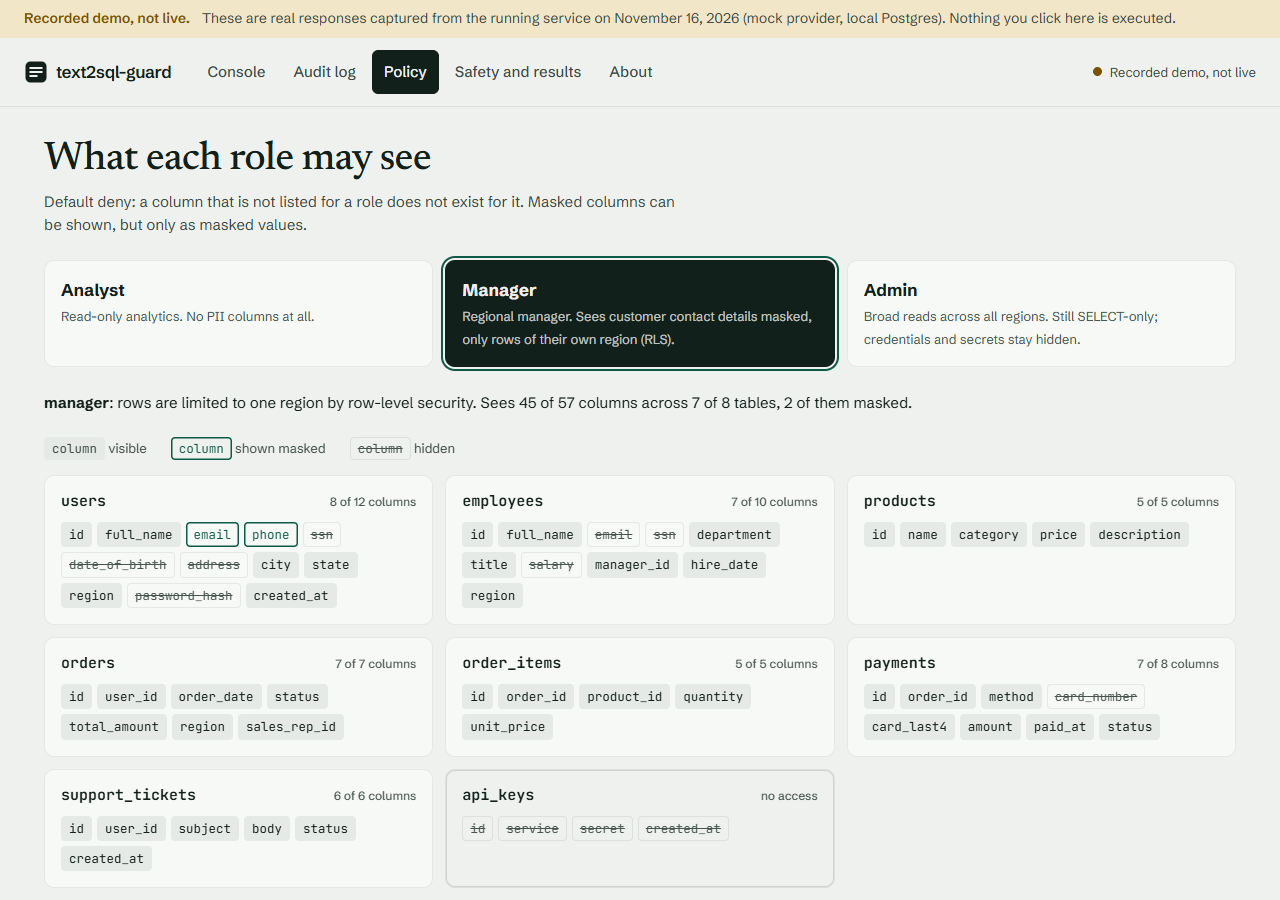
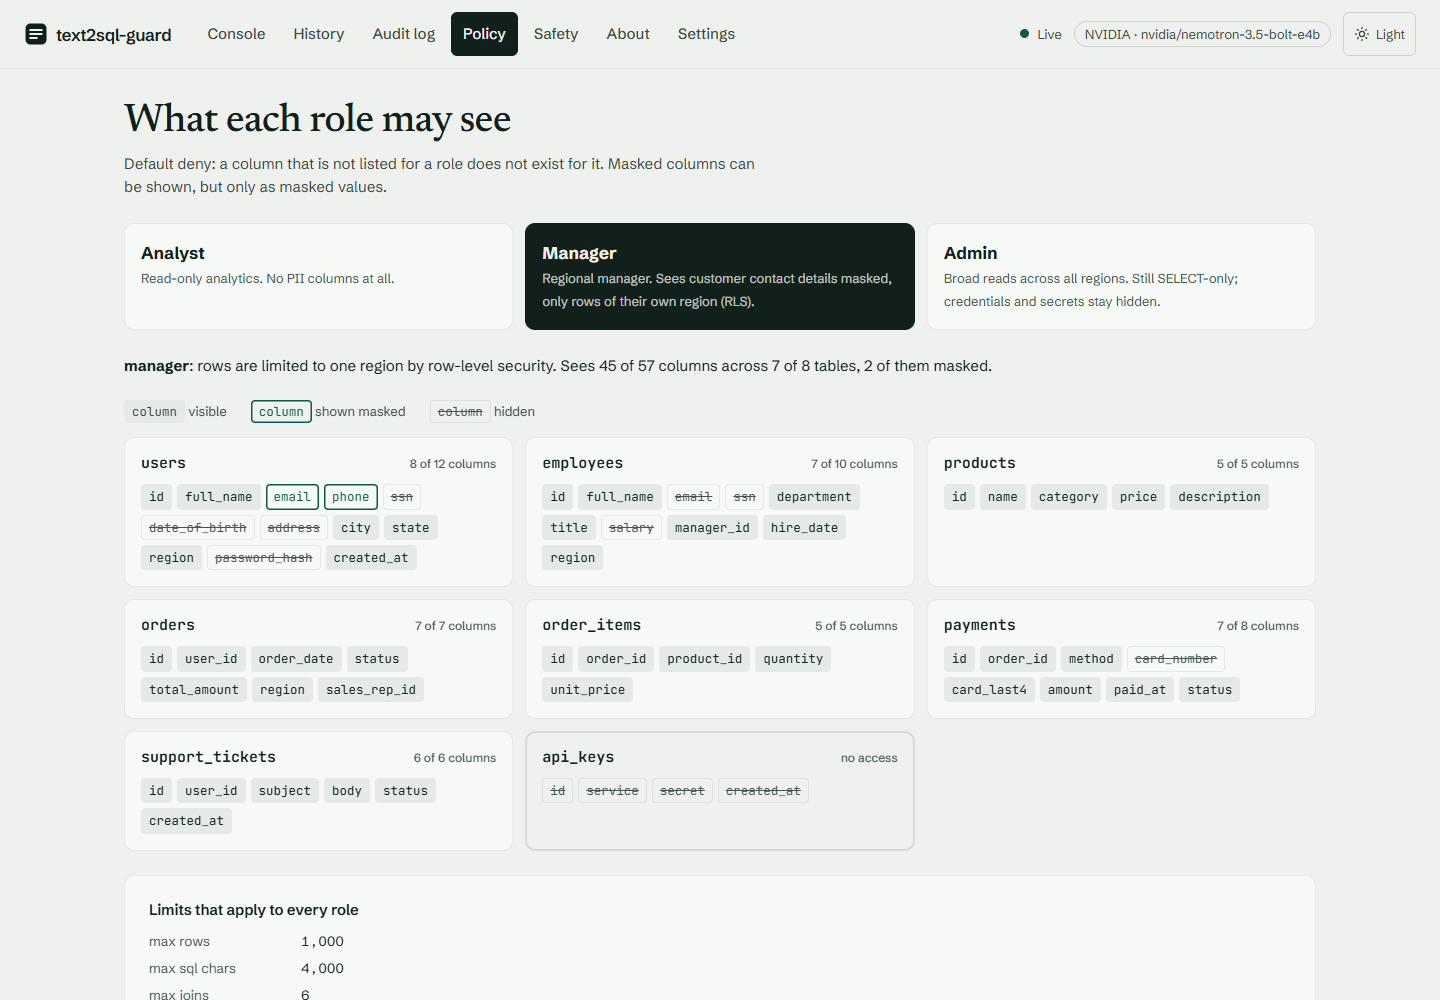
Add UX audit and refresh screenshots

diff --git a/docs/ux-audit.md b/docs/ux-audit.md
@@ -1,0 +1,54 @@
+# UX audit of the web console
+
+Method: ran the app against the live API (NVIDIA provider) and as the recorded demo under `/text2sql-guard/`, read every
+screen at 1440 px and 390 px in both themes, then ran accessibility audits on each route. Each row is an issue found and
+what was done about it.
+
+## Console
+
+| Issue found | Fix |
+| --- | --- |
+| The eight-stage trace came first and pushed the SQL and the result below the fold. | Order is now verdict, explanation (if refused), SQL, result, then the trace. |
+| Four different outcomes (allowed, refused, empty, provider failure) shared two looks; a rate-limited model call looked like a database error. | Four distinct states with an icon, a heading and a colour each. Provider failures get their own panel, labelled "model or network problem, not a policy decision". |
+| Rate limiting (HTTP or `llm.rate_limited`) was an opaque error with no way forward. | Live countdown from `retry_after_s`, a locked button that unlocks at zero, plain advice per failure kind (bad key, bad model, network, server). Not written to history. |
+| A blocked result showed a rule id and a sentence, nothing about what to do. | "Explain this block": rule, plain words, which stage, what the guard saw, whether anything ran, what to try. |
+| The stage text said "mock provider" even with a live model. | The generation stage names the live model when one is configured. |
+| No starting points for a new role; the example list was fixed and assumed the mock model. | Question chips built from the role's visible columns (from `/policy/{role}`), a masked-column hint where it applies, and refusal probes. |
+| Result table: no type alignment, long cells forced wide rows, masked columns were only coloured, row cap was invisible. | Numbers right-aligned, dates in tabular figures, cells over 48 characters truncated with a per-cell "more", a focusable "masked" tag with a tooltip, sticky header, a notice when the 1000-row cap is hit. |
+| No way to take a result away or copy the SQL. | Copy SQL, CSV and JSON export (masked values, notice in the file, formula-injection guard). |
+| Loading was a single grey block. | Result-shaped skeleton and an explanatory line; motion is dropped under reduced motion. |
+| Trace rows were heavy; status was colour plus a tiny square. | One line per stage with a distinct glyph per state (check, cross, dash, dot), details in a native disclosure, the refusing stage opens itself, calm staggered entrance. |
+| Verdict was announced only through a polite live region around the whole result. | A short status message ("Blocked at Input guard, rule ...") is announced; the result region is not re-read. |
+
+## Everyday use (new)
+
+* History (last 100, per role, search, re-run, delete, clear all with confirmation) and saved queries. Stored in
+  localStorage: question or SQL, role, region, the SQL the service produced, decision. Never result rows. The page says so.
+* The demo records to history too and can export the recorded rows, so the hosted demo shows the whole workflow.
+* Settings: theme (system, light, dark, saved, applied before first paint), density, provider status with privacy note,
+  read-only model list, how to configure, local data controls.
+
+## Navigation and structure
+
+| Issue found | Fix |
+| --- | --- |
+| Header mixed navigation, two status badges and no theme control; on a phone it wrapped into three rows. | Nav row scrolls horizontally on a phone, status cluster (mode, provider linking to Settings, theme) is compact. |
+| Every route had the same document title. | Per-route titles; focus moves to the page heading on navigation. |
+| Only the About page had a footer. | Every page has a `footer` landmark. |
+| Audit filters were lost on reload and could not be shared. | Filters live in the URL (`?decision=block&role=analyst&q=...`). |
+| Audit and Policy errors were bare text with no retry; empty states differed by page. | One error box with Try again, one empty state with a next action. |
+| Policy page: invalid `dl` markup (found by the audit), skipped heading level. | Fixed. |
+
+## Accessibility and quality
+
+* Contrast of every text/background token pair was computed for both themes: all at least 4.6:1.
+* Audits (axe-based, accesslint) on console, audit, policy, safety, about, history and settings report no violations after
+  fixing the scrollable model list (not keyboard reachable) and the two Policy findings above. A transient contrast
+  finding during the stage entrance animation was a mid-fade measurement and clears once settled.
+* No hardcoded absolute asset paths: favicon uses `%BASE_URL%`, data and API URLs are built from `import.meta.env.BASE_URL`.
+
+## Not done / needs the backend
+
+* The model cannot be switched from the UI. It is read from the environment when the API starts, so the picker is a
+  read-only list. Switching would need a per-request `model` field (or an admin endpoint) on `/query`.
+* `/query` has no streaming, so the running state is a skeleton rather than live stage progress.
